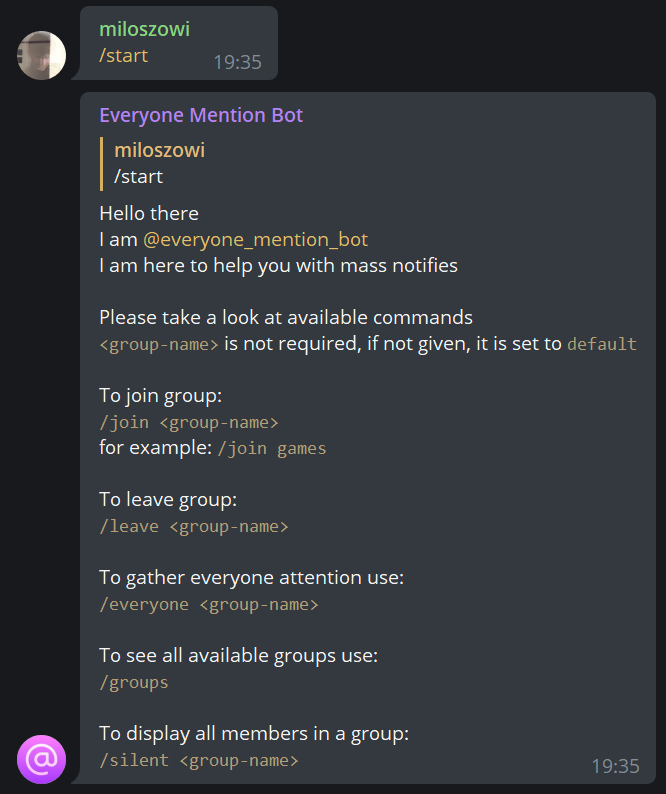
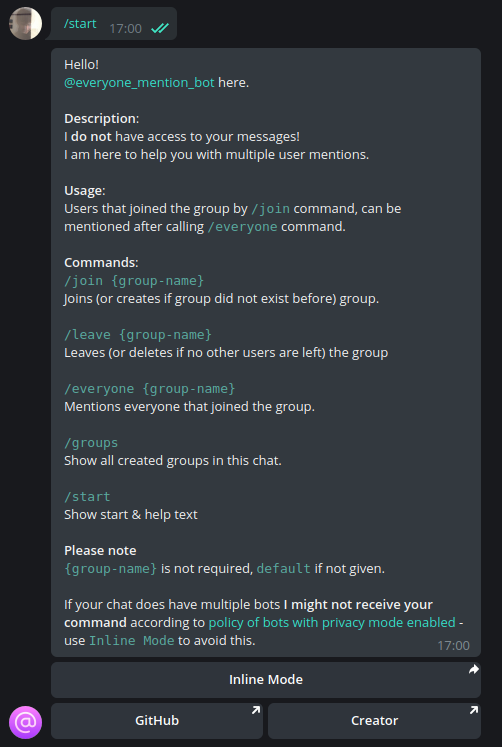
Group name length validation increased, updated contents, readme, changelog

Changed region(s): [[0.0, 0.0, 0.9861, 1.0], [0.6275, 0.739, 0.747, 0.7697]]

diff --git a/src/config/contents.py b/src/config/contents.py
@@ -6,38 +6,36 @@ not_left = '{} did not join group `{}` before'
 mention_failed = 'There are no users to mention'
 no_groups = 'There are no groups for this chat'
 
-
 # html python-telegram-bot specific
 start_text = """
 Hello!
 @everyone_mention_bot here.
+
+<b>Description</b>:
+I <b>do not</b> have access to your messages! 
 I am here to help you with multiple user mentions.
 
-Using <code>Inline Mode</code> is recommended because <a href="https://core.telegram.org/bots/faq#what-messages-will-my-bot-get">policy of bots with privacy mode enabled</a> says that command trigger is sent (without mentioning the bot) only to the last mentioned bot. So if you do have multiple bots in current chat, I might not receive your command!
+<b>Usage</b>:
+Users that joined the group by <code>/join</code> command, can be mentioned after calling <code>/everyone</code> command.
 
-Available commands:
+<b>Commands</b>:
+<pre>/join {group-name}</pre>
+Joins (or creates if group did not exist before) group.
+
+<pre>/leave {group-name}</pre>
+Leaves (or deletes if no other users are left) the group
+
+<pre>/everyone {group-name}</pre>
+Mentions everyone that joined the group.
+
+<pre>/groups</pre>
+Show all created groups in this chat.
+
+<pre>/start</pre>
+Show start & help text
+
 <b>Please note</b>
 <code>{group-name}</code> is not required, <code>default</code> if not given.
 
-<b>Join</b>
-Joins (or creates if group did not exist before) group.
-<pre>/join {group-name}</pre>
-
-<b>Leave</b>
-Leaves (or deletes if no other users are left) the group
-<pre>/leave {group-name}</pre>
-
-<b>Everyone</b>
-Mentions everyone that joined the group.
-<pre>/everyone {group-name}</pre>
-
-<b>Groups</b>
-Show all created groups in this chat.
-<pre>/groups</pre>
-
-<b>Start</b>
-Show start & help text
-<pre>/start</pre>
-
-Reach out to <a href="https://t.me/miloszowi">Creator</a> in case of any issues/questions regarding my usage.
+If your chat does have multiple bots <b>I might not receive your command</b> according to <a href="https://core.telegram.org/bots/faq#what-messages-will-my-bot-get">policy of bots with privacy mode enabled</a> - use <code>Inline Mode</code> to avoid this.
 """

diff --git a/src/validator/groupNameValidator.py b/src/validator/groupNameValidator.py
@@ -4,7 +4,7 @@ from exception.invalidArgumentException import InvalidArgumentException
 
 
 class GroupNameValidator:
-    MAX_GROUP_NAME_LENGTH: int = 20
+    MAX_GROUP_NAME_LENGTH: int = 40
 
     @staticmethod
     def validate(group: str) -> None:

diff --git a/README.md b/README.md
@@ -1,26 +1,101 @@
-# <p align="center"> [everyone-mention-telegram-bot](http://t.me/everyone_mention_bot)
+#<p align="center"> [everyone-mention-telegram-bot](http://t.me/everyone_mention_bot)
 <p align="center"> <img src="docs/logo.png" width="150"/>
 <!-- Icon made by https://www.freepik.com from https://www.flaticon.com/ -->
 
 # Contents
 
 * [Description](#description)
-* [Getting started.](#getting-started)
-    * [Requirements](#requirements)
-    * [Installation](#installation)
-    * [Logs](#logs)
-    * [Env files](#env-files)
 * [Commands](#commands)
     * [`/join`](#join)
     * [`/leave`](#leave)
     * [`/everyone`](#everyone)
     * [`/groups`](#groups)
     * [`/start`](#start)
+    * [Example command flow](#example-command-flow)
+* [Inline Mode](#inline-mode)
+    * [Usage](#usage)
+* [Getting started.](#getting-started)
+    * [Requirements](#requirements)
+    * [Installation](#installation)
+    * [Logs](#logs)
+    * [Env files](#env-files)
 ## Description
 Everyone Mention Bot is simple, but useful telegram bot to gather group members attention.
 
 You can create groups per chat to mention every user that joined the group by calling one command instead of mentioning them one by one.
 
+## Commands
+*Important*: `{group-name}` is not required, if not given, it will be set to `default`.
+### `/join`
+Joins the group (if group did not exist before, it will be created).
+```
+/join {group_name}
+```
+*Examples*
+
+without group name
+
+![join default command example](docs/join_default.png)
+
+with group name
+
+![join group command example](docs/join_group.png)
+
+### `/leave`
+Leaves the group (and deletes if no members are left).
+```
+/leave {group_name}
+```
+*Examples*
+
+without group name
+
+![leave default command example](docs/leave_default.png)
+
+with group name
+
+![leave group command example](docs/leave_group.png)
+
+### `/everyone`
+Mention everyone that joined requested group.
+```
+/everyone {group-name}
+```
+
+*Examples*
+
+without group name
+
+![everyone default command example](docs/everyone_default.png)
+
+with group name
+
+![everyone group command example](docs/everyone_group.png)
+
+
+### `/groups`
+Will display available groups for this chat as well with members count.
+
+![groups command example](docs/groups.png)
+### `/start`
+Start & Help message
+
+![start command example](docs/start.png)
+
+### Example command flow
+![example command flow](docs/flow_command.png)
+
+## Inline Mode
+Using Inline Mode is recommended because policy of bots with privacy mode enabled (https://core.telegram.org/bots/faq#what-messages-will-my-bot-get) says that command trigger is sent (without mentioning the bot) only to the last mentioned bot. So if you do have multiple bots in current chat, I might not receive your command!
+
+### Usage
+To use inline mode, type `@everyone_mention_bot` in telegram message input or click on the `Inline Mode` button from `/start` command.
+
+![inline popup](docs/inline_mode_1.png)
+
+Type in your group name (you can leave it blank for `default` group name), then click on one of the three following options.
+
+![inline answer](docs/inline_mode_2.png)
 ## Getting started
 ### Requirements
 - `docker-compose` in version `1.25.0`
@@ -69,39 +144,3 @@ docker/logs <container>
   - `MONGO_INITDB_DATABASE` - conf from `app.env`
   - `MONGODB_DATA_DIR` - directory to store MongoDB documents (inside a container)
   - `MONDODB_LOG_DIR` - path to logs storage 
-## Commands
-### `/join`
-```
-/join <group_name>
-```
-Joins the group (and create if it did not exist before) given in message (`default` if not given)
-
-![join command example](docs/join.png)
-
-### `/leave`
-```
-/leave <group_name>
-```
-
-Leaves the group given in message (`default` if not given)
-
-![leave command example](docs/leave.png)
-
-### `/everyone`
-```
-/everyone <group_id>
-```
-Will mention every member of given group (`default` if not given).
-
-If user does not have nickname, it will first try to assign his firstname, then random firstname from `names` python library
-
-![everyone command example](docs/everyone.png)
-
-### `/groups`
-Will display available groups for this chat as well with members count.
-
-![groups command example](docs/groups.png)
-### `/start`
-Start & Help message
-
-![start command example](docs/start.png)

diff --git a/CHANGELOG.md b/CHANGELOG.md
@@ -1,14 +1,16 @@
 # Change Log
 All notable changes to this project will be documented in this file.
  
-## [UNRELEASED] - 11.10.2021
+## [0.2.0] - 26.10.2021
 ### Added
-- Inline Query for `join`, `leave` & `everyone`
-- Banned users
+- Inline Mode for `join`, `leave` & `everyone`
+- Banned users environment variable
 - Buttons for `start` message
 ### Changed
 - Code quality improvements
 - `start` text
+- mongodb data structure
+- group name max length to 40
 ### Deleted
 - `/silent` command
 ## [0.1.0] - 06.10.2021
